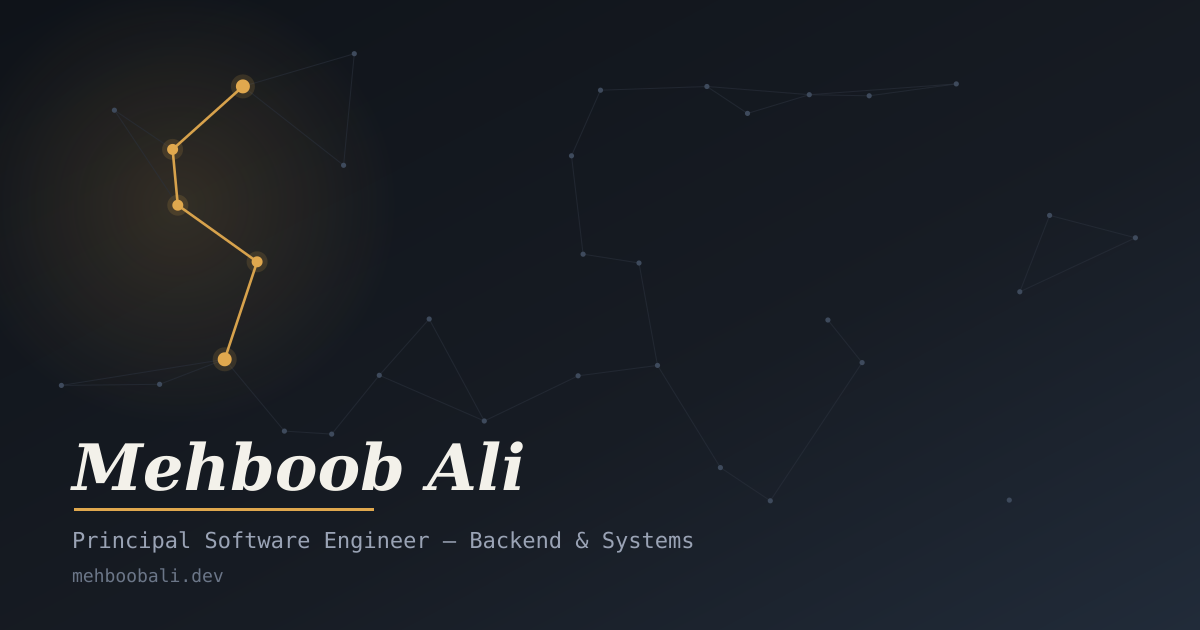
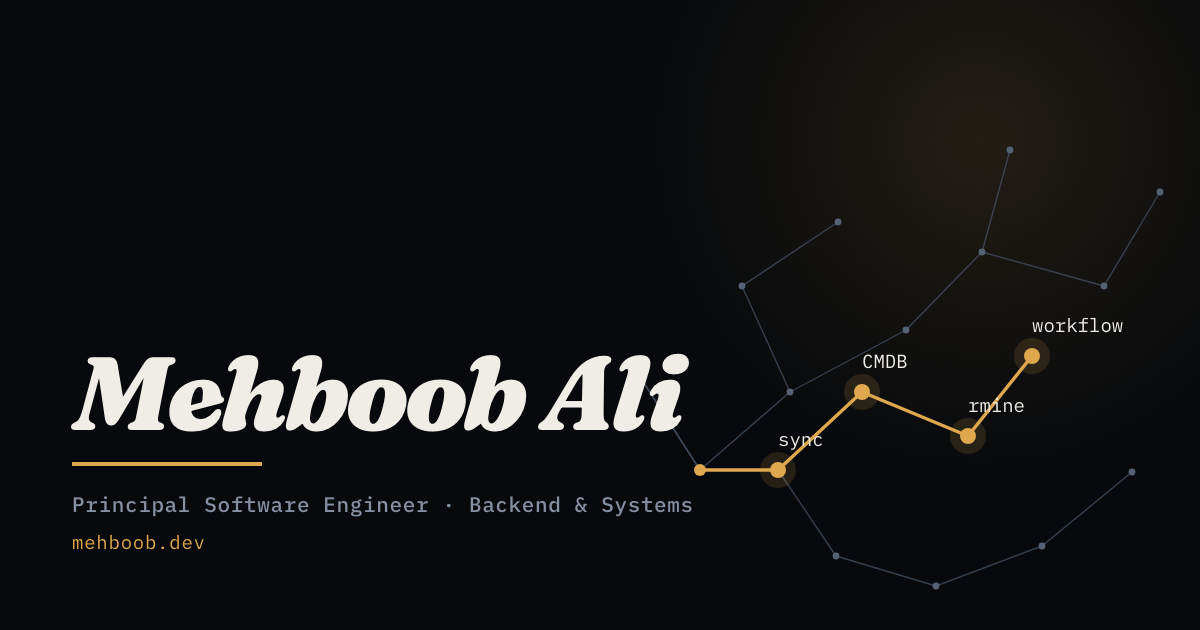
Point the site at mehboob.dev
astro.config pointed at mehboobali.dev, which was aspirational and never
checked. Someone else registered it in May 2026, so every canonical, og:url,
og:image, JSON-LD url, RSS link and llms.txt entry named a domain that isn't
ours. Nothing had broken yet only because nothing is deployed.

mehboob.dev is registered at Cloudflare Registrar and on Cloudflare
nameservers. The domain is written once, in site:, and everything derives from
it. Verified across all 7 pages plus the feed and llms.txt.

The one copy that can't derive from config is the OG artwork, which had the
old domain rendered into it as pixels, so it is regenerated. While it was being
redrawn it also picked up the new design: the void ground, the current palette,
and the four labelled work nodes from the hero graph instead of the decorative
constellation it used to carry. The card that gets shared now shows the same
thing the page opens with.

Claude-Session: https://claude.ai/code/session_01V7sxt2fWwtAbUSiKZJPuPh

diff --git a/README.md b/README.md
@@ -1,4 +1,4 @@
-# mehboobali.dev
+# mehboob.dev
 
 Personal portfolio site. Built with [Astro](https://astro.build) + Tailwind CSS v4, self-hosted fonts
 (no external CDN calls), single scrolling page.
@@ -108,12 +108,18 @@ Either way: connect the repo once, and every future `git push` redeploys automat
 
 ## Domain
 
-Not registered yet. Suggested, in priority order:
-- `mehboobali.dev` — standard convention for developer sites, forces HTTPS
-- `mehboobali.com` — backup if `.dev` is taken, more universally recognized outside tech
+`mehboob.dev`, registered at Cloudflare Registrar and on Cloudflare nameservers.
 
-Check availability and buy at Cloudflare Registrar (sells at cost, no markup) or Namecheap.
-Takes about five minutes.
+`.dev` is on the HSTS preload list, so browsers refuse plain HTTP for it before a request
+is ever made. Nothing to configure; just don't expect an http:// link to work.
+
+The domain is written in exactly one place, `site:` in `astro.config.mjs`. Canonicals,
+`og:url`, `og:image`, the JSON-LD blocks, the RSS item links and `llms.txt` all derive
+from it. The one copy that does not is `public/og.png`, which has the domain rendered
+into the artwork as pixels, so that has to be regenerated by hand if the domain changes.
+
+(An earlier draft of this file pointed at `mehboobali.dev`. That was aspirational and
+was never checked; someone else registered it in May 2026.)
 
 ## Updating the resumes
 
